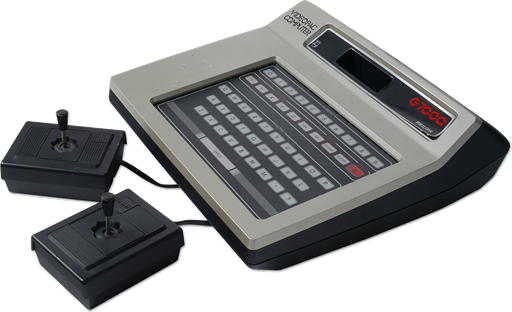
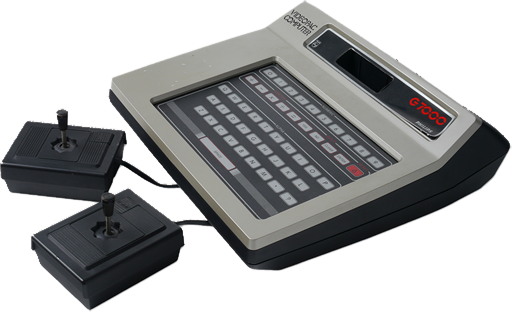
Improve ZX80 photograph and remove Videopac edge matte

diff --git a/docs/tasks/emulation/commun.md b/docs/tasks/emulation/commun.md
@@ -2135,3 +2135,21 @@ Avant correction Sony : les douze contrôles échouent ; Common, Pcsx2 et Ppsspp
 Après correction Sony : 537 contrôles ciblés réussis (Sony et NativeCleanupTests), dont les douze cas Common/Pcsx2/Ppsspp avec Stop/Dispose rappelé depuis unload et avec/sans exception. _gameLoaded est désarmé avant le callback ; _disposing protège la libération en cours et est réinitialisé dans finally. La persistance des sauvegardes/firmwares conserve ses finally. PPSSPP conserve désormais son hôte de callbacks par référence locale jusqu au déchargement de bibliothèque, comme les deux autres propriétaires. Aucun cœur externe, fenêtre ou fichier de fixture créé ; aucune mesure DWM prétendue. Build final Debug complet terminé code zéro ; lanceur présent, 23 DLL de modules livrées identiques par SHA256 aux compilations courantes, staging supprimé. Aucun script du dépôt modifié.
 
   - [x] Commiter les trois corrections de propriétaire Sony, leur régression et le suivi ensemble, sans push.
+
+- [x] Revoir visuellement les photos des machines des seize familles.
+  - [x] Créer C:\Users\overt\AppData\Local\Temp\gwgui-machine-visual-review-415fa1a0b7d8411080ba7c278f801e51 : planches de dix PNG existants maximum sur fonds clair et sombre avec ImageMagick autorisé, sans changer les fichiers source ni créer de script ; examiner les bords, le sujet réel et le détourage.
+  - [x] Modifier docs/tasks/emulation/commun.md : inscrire uniquement les défauts concrets et les fichiers de production à corriger après cette inspection ; ne pas assimiler une dimension ou un canal alpha à une qualité photographique validée.
+  - [x] Supprimer C:\Users\overt\AppData\Local\Temp\gwgui-machine-visual-review-415fa1a0b7d8411080ba7c278f801e51 et ses seules planches après inspection, avec vérification du chemin absolu sous Temp ; conserver les PNG de production inchangés jusqu à identification d une meilleure source.
+
+Inspection des seize planches (80 machines, fonds clair et sombre) : SpectrumSe.png conserve son bord supérieur coupé dans la photographie ; Zx80.png présente une forte dominante violette et une silhouette anguleuse ; VideopacG7000.png conserve un liseré blanc visible autour du boîtier, des manettes et des câbles sur fond sombre. Les autres planches ne montrent pas de défaut de cette ampleur à leur échelle ; ce constat n est pas une validation de chaque pixel à 512 px. Les deux derniers fichiers doivent être repris depuis une meilleure source ou un masque classique précis, sans reconstruire le matériel. Aucun PNG de production modifié pendant cette inspection.
+
+- [x] Corriger les deux détourages de machines identifiés.
+  - [x] Créer C:\Users\overt\AppData\Local\Temp\gwgui-machine-photo-correction-63511df6fed6463e815e8c53c017eb39 : télécharger les originaux photographiques ZX80 et Videopac identifiés sur Commons, comparer avec les PNG actuels, préparer des candidats par commandes ImageMagick directes ; aucune génération ni script Python/C#.
+  - [x] Modifier src/GWGUI.Emulation.Sinclair/Assets/Machines/Zx80.png et src/GWGUI.Emulation.Philips/Assets/Machines/VideopacG7000.png uniquement après inspection de candidats meilleurs : photo intacte, contour et câbles conservés, dimension maximale 512 px, alpha transparent.
+  - [x] Modifier THIRD-PARTY-NOTICES.md : indiquer les sources, auteurs, licences et adaptations effectivement retenues ; modifier docs/tasks/emulation/commun.md avec le résultat réel et les limites restantes.
+  - [x] Supprimer C:\Users\overt\AppData\Local\Temp\gwgui-machine-photo-correction-63511df6fed6463e815e8c53c017eb39 et ses seuls originaux/candidats temporaires après contrôle du chemin absolu sous Temp ; reconstruire tous les modules après le lot de ressources retenu.
+Candidats inspectés à 512 px sur fonds clair et sombre : ZX80 remplacé par la photographie complète de Daniel Ryde, aux couleurs naturelles et sans occultation ; la photo RetroMadrid 2017 est rejetée car un sac plastique masque le coin supérieur gauche. Videopac conserve sa photo et ses données RGB ; seul l alpha est corrigé, avec maintien des pixels sombres des câbles. L essai de dématage simple conservait le liseré blanc ; les variantes à seuil produisant un contour irrégulier ont été rejetées. Le candidat retenu supprime le liseré en protégeant les câbles, puis adoucit le masque. La photo Commons de Rama n est pas utilisée car elle coupe une manette. Sources et adaptations retenues ajoutées aux notices, aucune attribution de Rama appliquée au PNG existant. Spectrum SE reste inchangé et ouvert. Aucun test de code ajouté pour ces deux PNG.
+
+Livraison des deux PNG : build Debug complet code zéro, lanceur présent et 23 DLL livrées identiques par SHA256 aux compilations courantes. Ressources embarquées Zx80 et VideopacG7000 comparées par SHA256 aux PNG source : identiques. Dimensions réelles 512x406 et 512x312 avec alpha. Empreinte RGB Videopac avant/après identique : d8ad1587a09b8583c9d760a223df24fcd395dd8304aa240e4e442746d57e22dc. Les deux dossiers GUID de revue et de correction sont supprimés, ainsi que le staging du build. Aucun script ajouté, aucun test externe conservé.
+
+  - [x] Commiter ensemble les deux PNG corrigés, leurs notices et le suivi, sans push.

diff --git a/THIRD-PARTY-NOTICES.md b/THIRD-PARTY-NOTICES.md
@@ -153,3 +153,16 @@ Adaptation: lossless assembly of the two embedded JPEG strips into the original 
 Asset: `src/GWGUI.App/Assets/Controllers/sony-dualshock-3.png`.
 Source: https://commons.wikimedia.org/wiki/File:PS3_controller.png (1200 x 880 PNG), photographed by Evan-Amos; controller cutout by Lorenziand, derived from PS3Versions.png. The source is released into the public domain by its authors.
 Adaptation: proportional classical resampling to 512 x 375 pixels, preserving the existing transparent silhouette and photographic markings. No generated or reconstructed parts.
+
+## Sinclair ZX80 photograph
+
+Asset: `src/GWGUI.Emulation.Sinclair/Assets/Machines/Zx80.png`.
+Photograph by Daniel Ryde, Skövde, 31 August 2004; levels and sharpening edit by Ian Dunster. Licensed under Creative Commons Attribution-ShareAlike 3.0 Unported: https://creativecommons.org/licenses/by-sa/3.0/.
+Source: https://commons.wikimedia.org/wiki/File:ZX80.jpg
+Original: https://upload.wikimedia.org/wikipedia/commons/2/24/ZX80.jpg
+Adaptation: classical silhouette alpha mask, removal of the exterior background and cast shadow, proportional resizing and transparent padding to 512 x 406 pixels. The complete photographed case, keyboard and printed legends are retained. No generated or reconstructed parts. This adapted photograph remains under CC BY-SA 3.0.
+
+## Philips Videopac G7000 alpha correction
+
+Asset: `src/GWGUI.Emulation.Philips/Assets/Machines/VideopacG7000.png`.
+The existing repository photograph is retained. This update changes only its alpha channel: classical edge matte cleanup with protection of the dark cable pixels and a subpixel feather. RGB pixels, lettering, controls and cable paths are unchanged; no new photograph or generated hardware is introduced. Dimensions remain 512 x 312 pixels.
